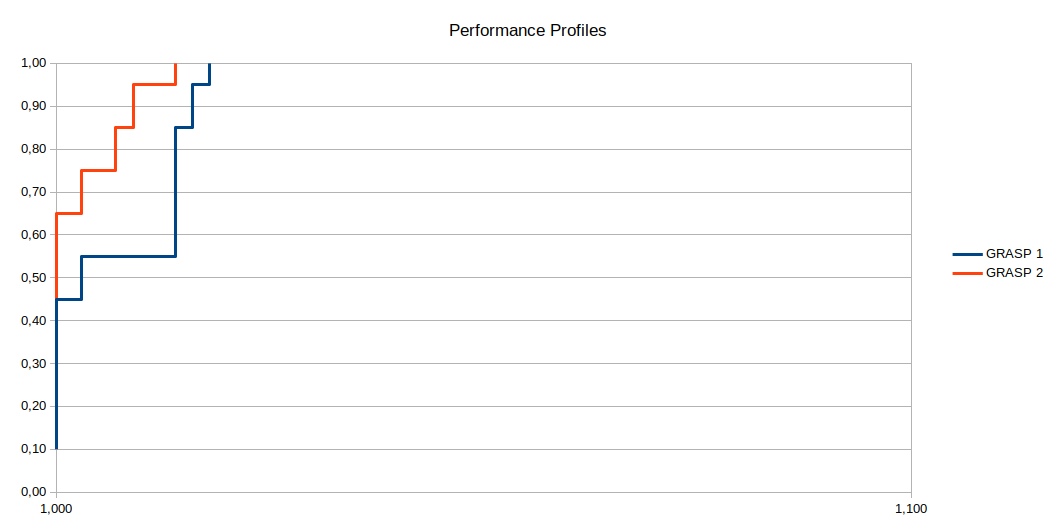
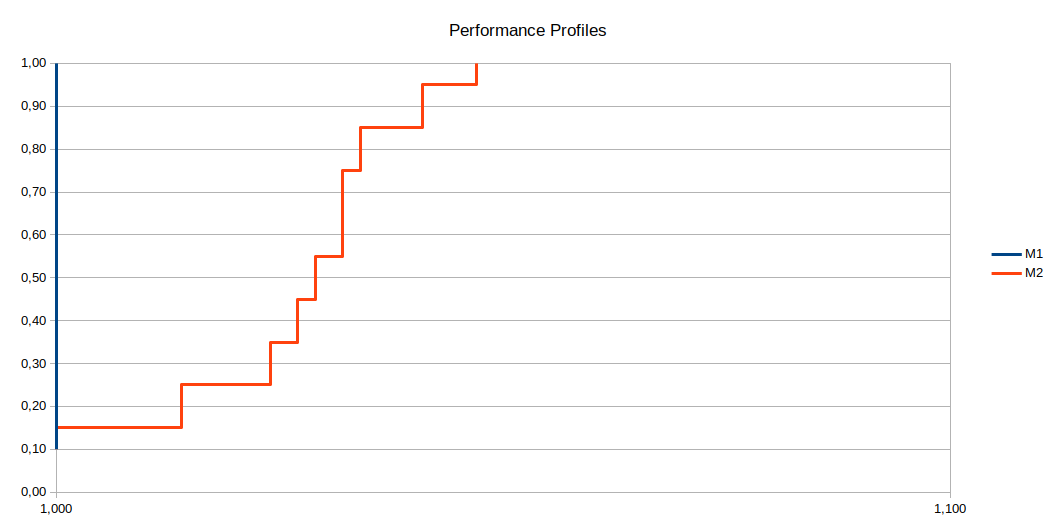
Inicio dos resultados correção do SAMPLED

diff --git a/Empacotamento/src/problems/bpp/solvers/GRASP_BPP.java b/Empacotamento/src/problems/bpp/solvers/GRASP_BPP.java
@@ -223,16 +223,16 @@ public class GRASP_BPP<E> extends AbstractGRASP<Item> {
 
     public static void main(String[] args) {
         String arquivo;
-        Double ALPHA = 0.05D;
+        Double ALPHA = 0.10D;
         Integer NUM_ITERACOES = 1000000;
         Integer TEMPO_SEGUNDOS = 60 * 10;
 
         arquivo = "./bpp_instances/instance0.bpp";
-//        arquivo = "./bpp_instances/instance1.bpp";
-//        arquivo = "./bpp_instances/instance2.bpp";
-//        arquivo = "./bpp_instances/instance3.bpp";
-//        arquivo = "./bpp_instances/instance4.bpp";
-//        arquivo = "./bpp_instances/instance5.bpp";
+        arquivo = "./bpp_instances/instance1.bpp";
+        arquivo = "./bpp_instances/instance2.bpp";
+        arquivo = "./bpp_instances/instance3.bpp";
+        arquivo = "./bpp_instances/instance4.bpp";
+        arquivo = "./bpp_instances/instance5.bpp";
 //        arquivo = "./bpp_instances/instance6.bpp";
 //        arquivo = "./bpp_instances/instance7.bpp";
 //        arquivo = "./bpp_instances/instance8.bpp";
